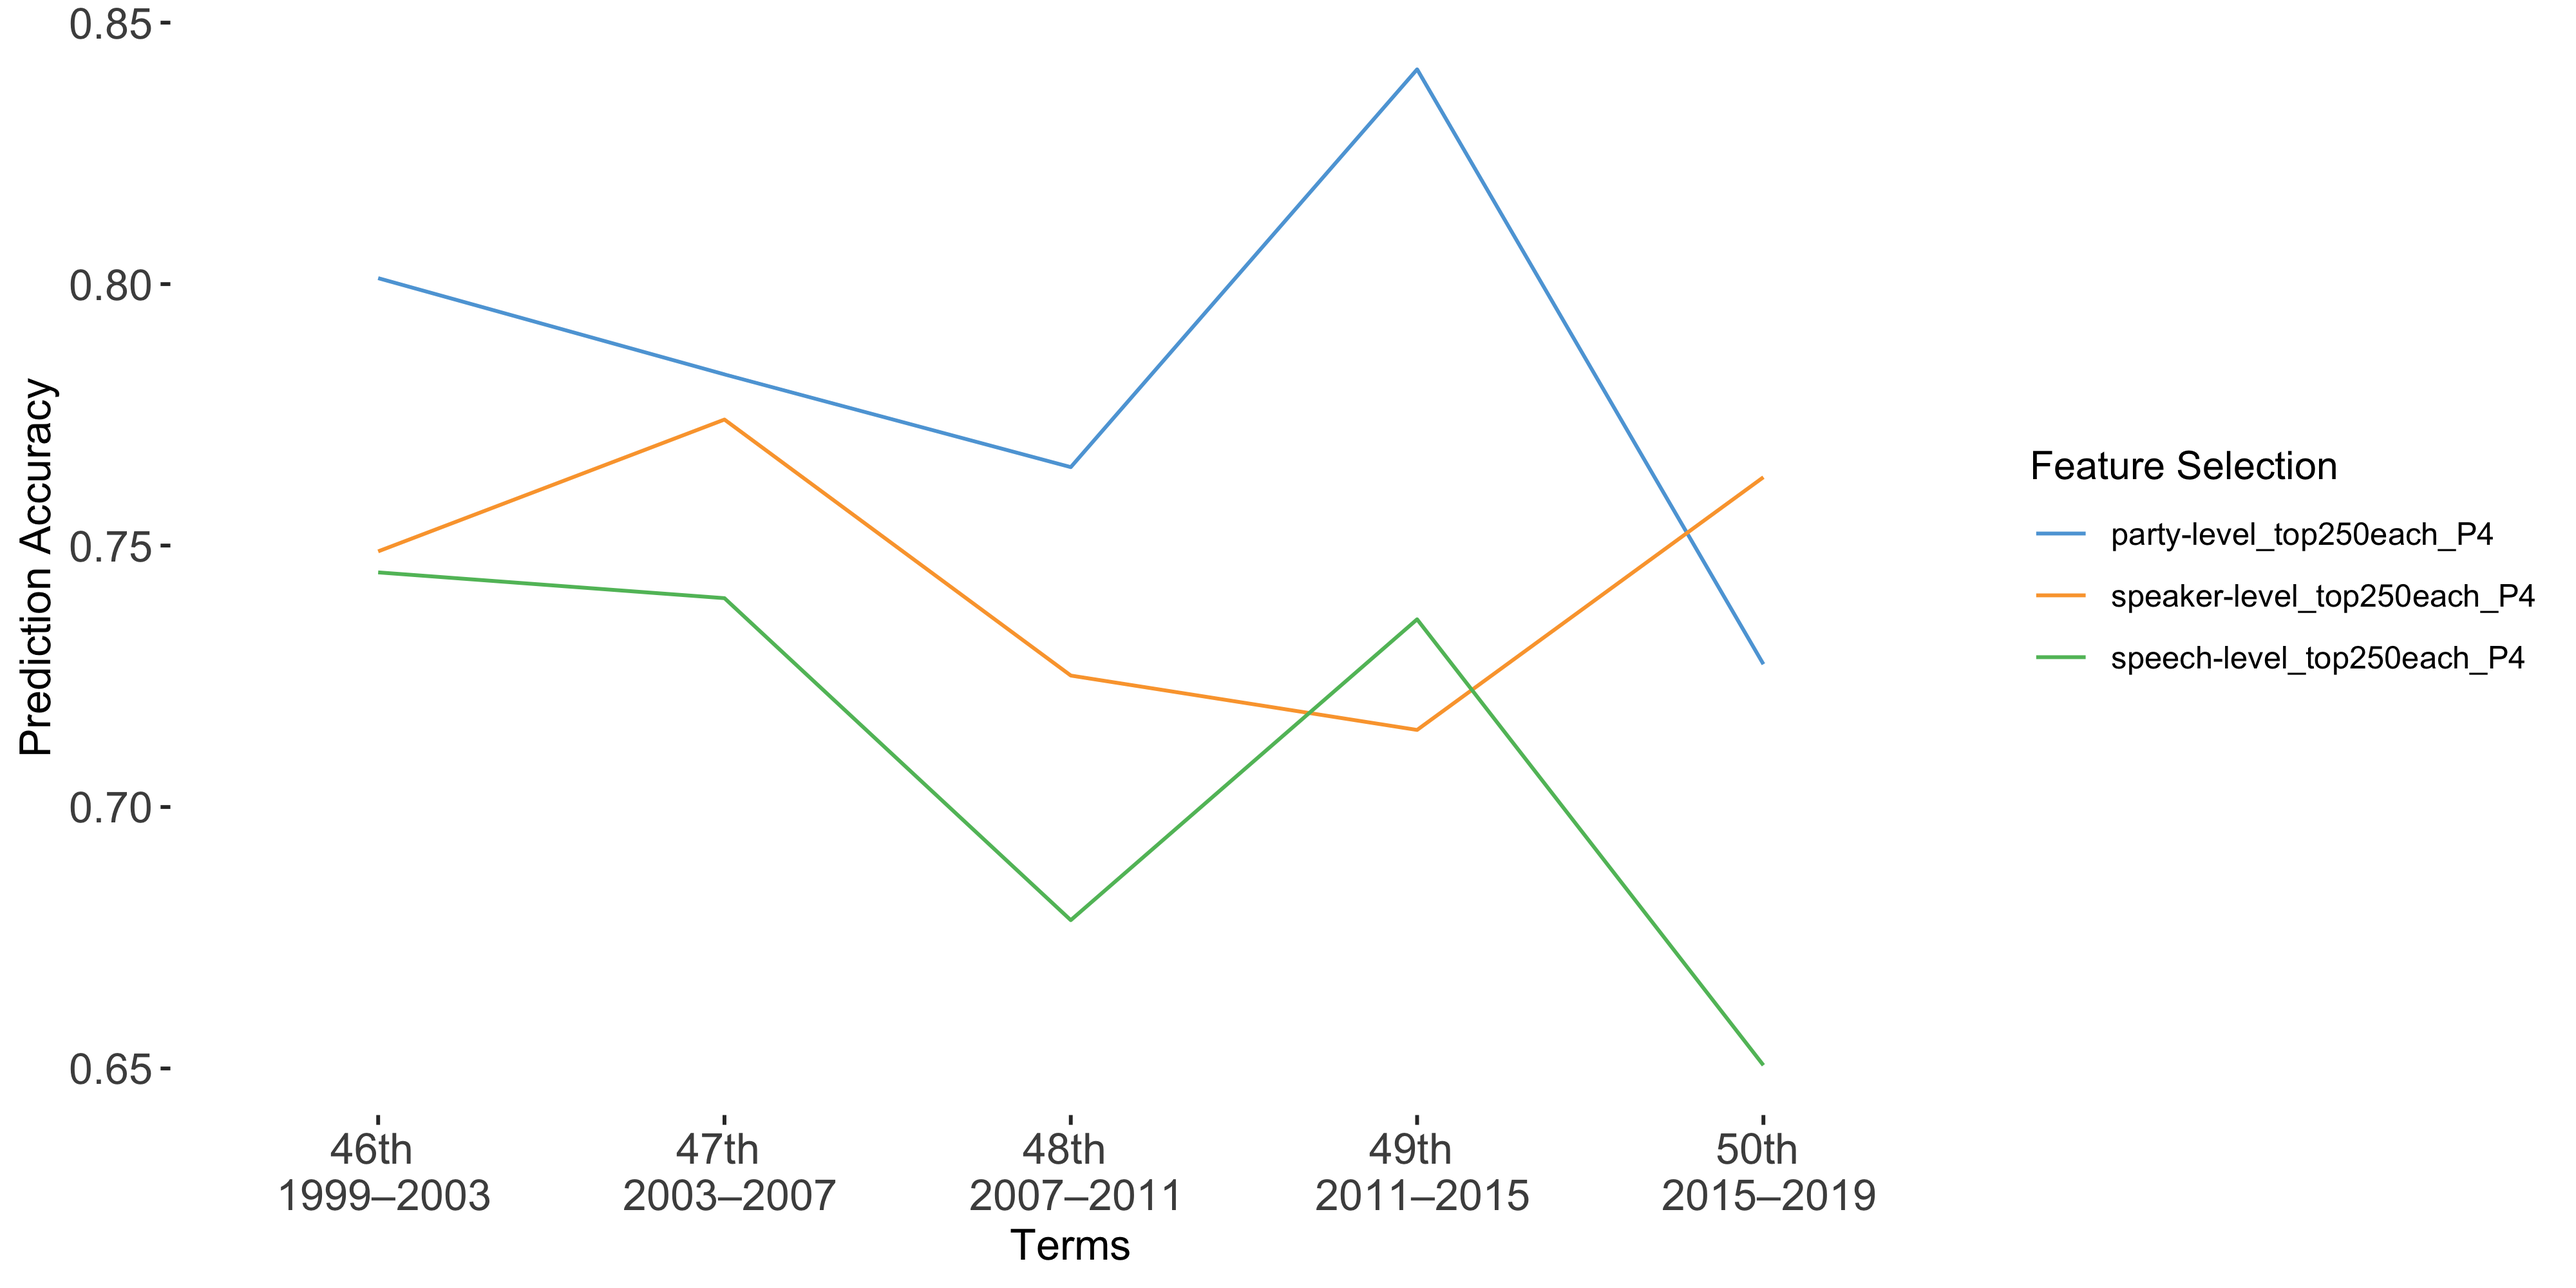
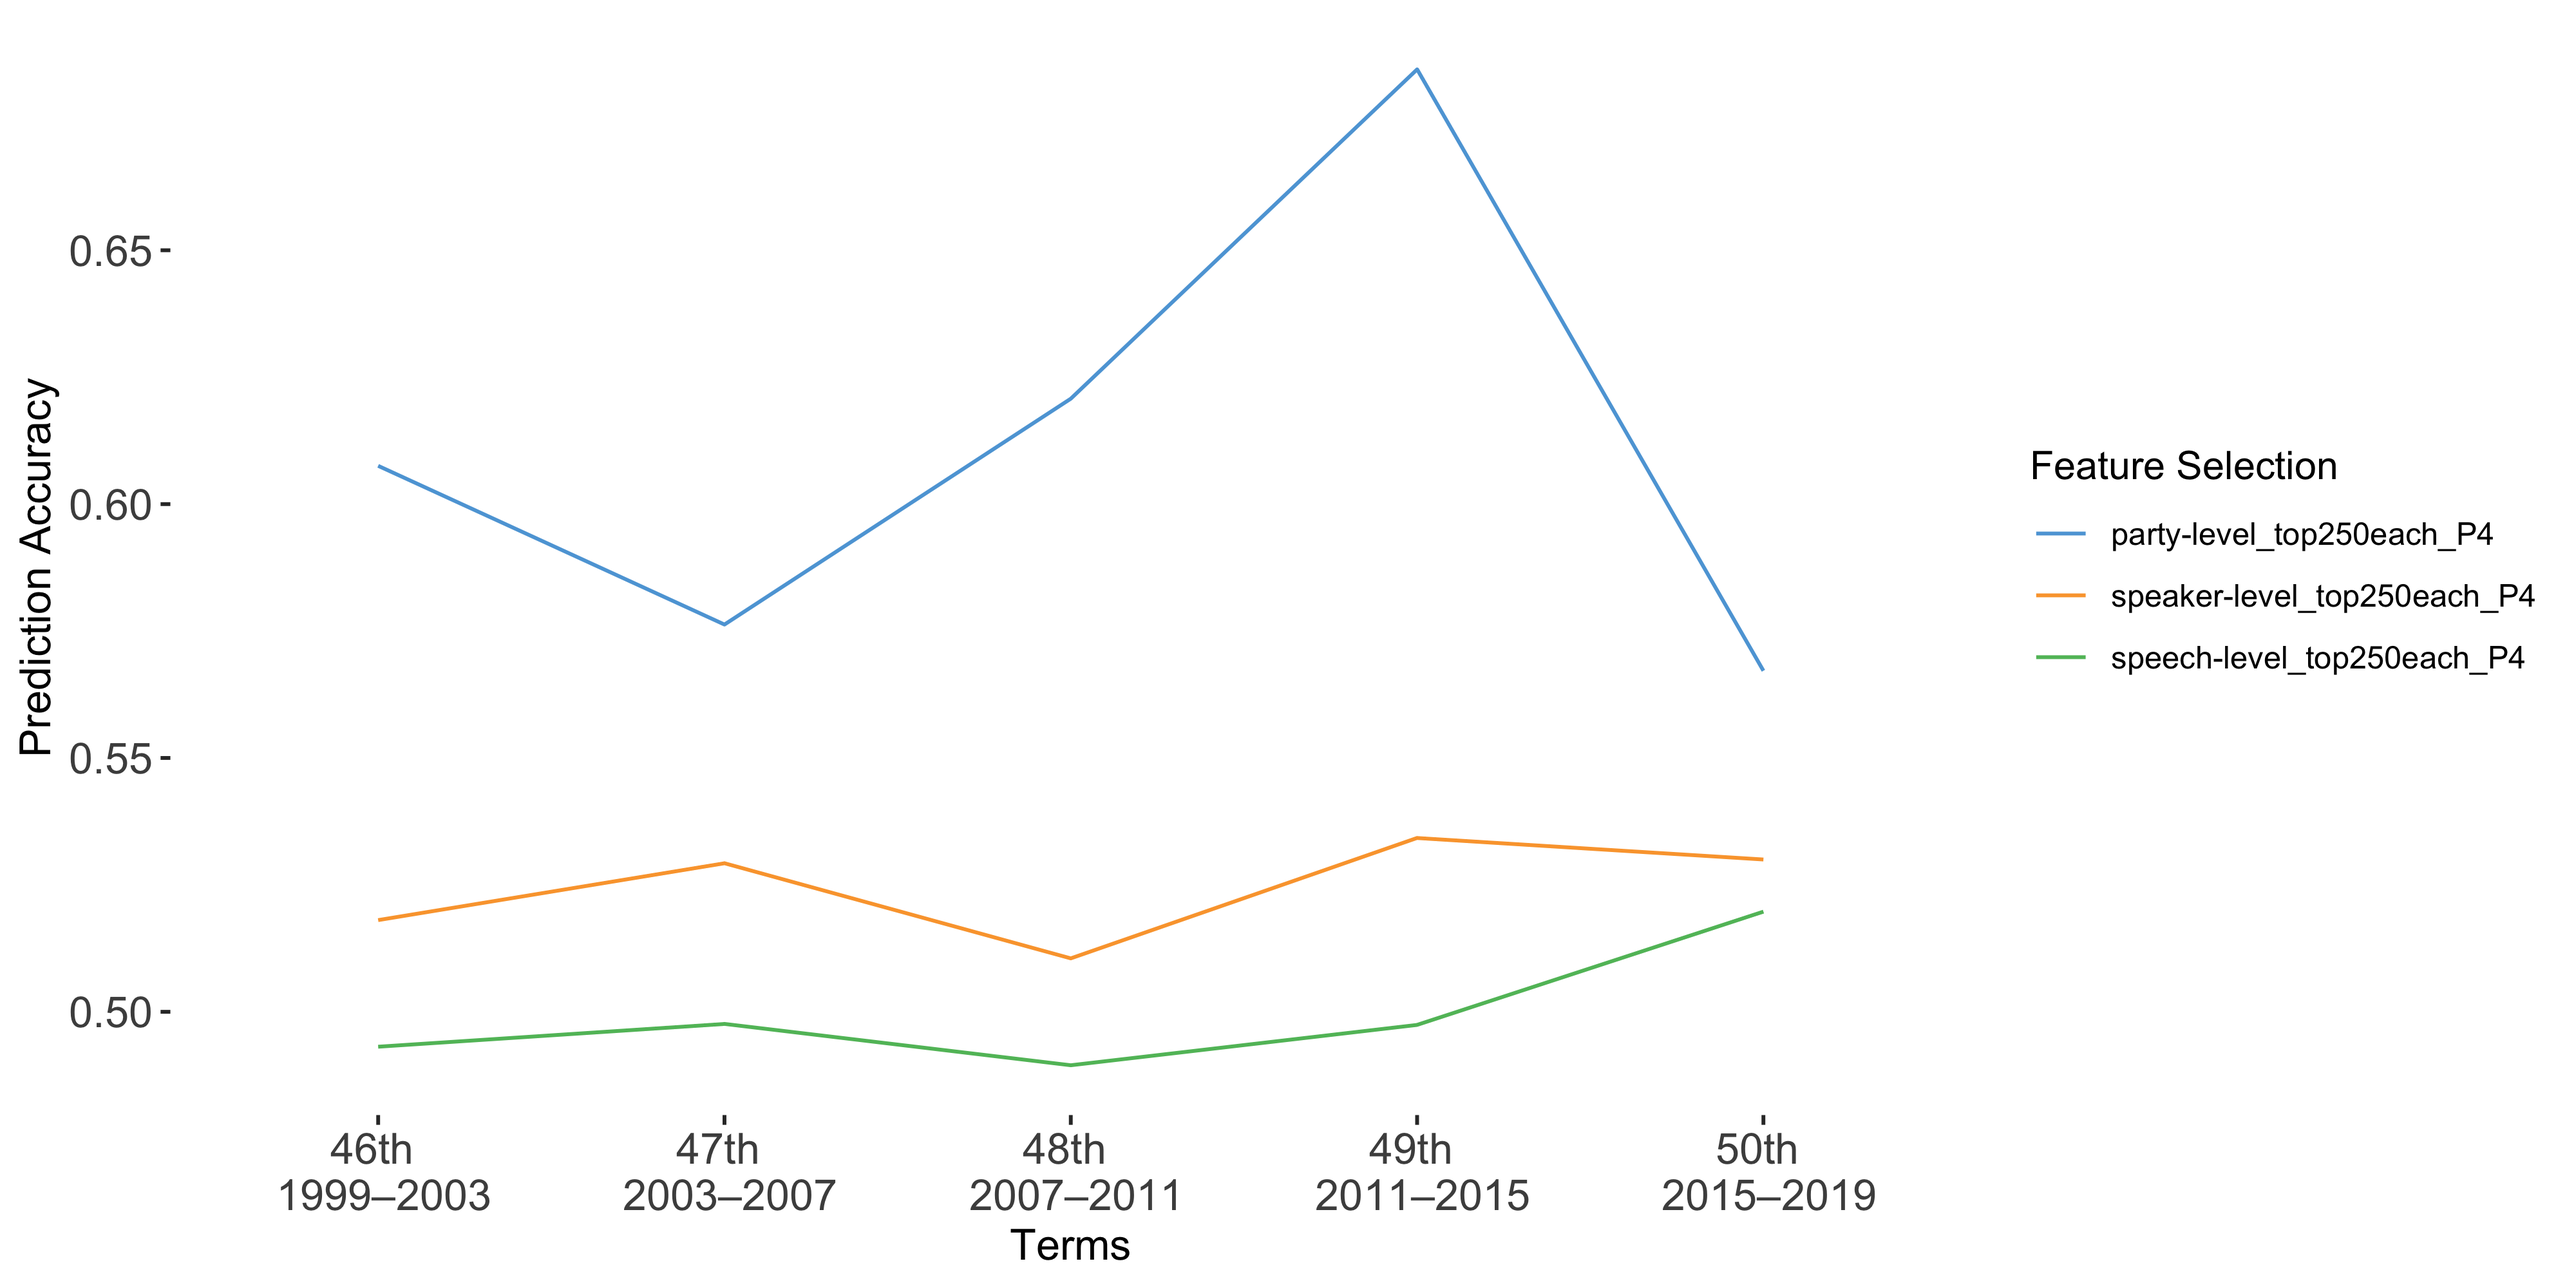
update readme & plots

diff --git a/README.md b/README.md
@@ -183,4 +183,6 @@ Distribution of Phrases  | Distribution of Speakers
 
 Define *documents* by the level of _party_ (the specification of the previous analysis), _speaker_ and _speech_. Then, aggregate the phrases' tf-idf scores to party-level and select for each of the four main parties the 250 phrases with highest tf-idf score.
 
-![](Results/plots/def_doc_doc_regLogistic_P4_summary.png)
+Normal | Ext. Stopwords & No Party Ref
+:-----:|:-------:
+![](Results/plots/def_doc_doc_regLogistic_P4_pp_base_summary.png)|![](Results/plots/def_doc_doc_regLogistic_P4_summary.png)
